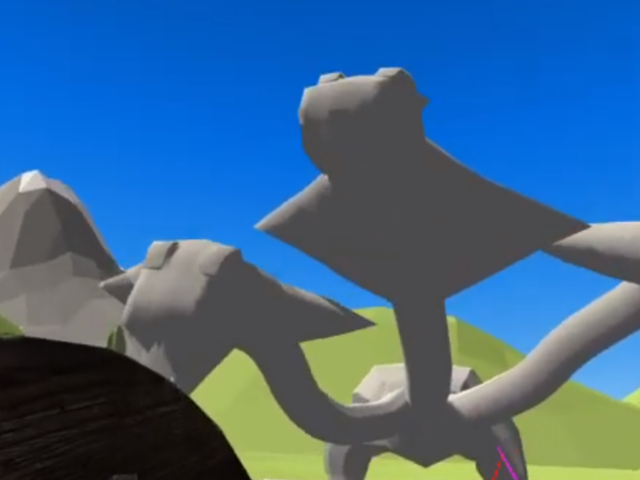
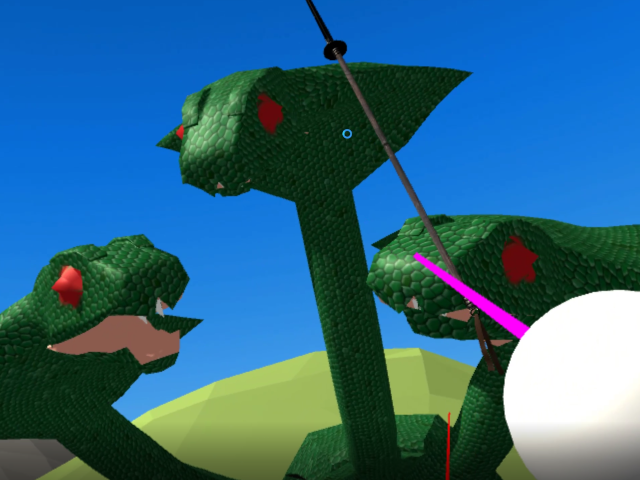
Additional Photos

diff --git a/Jurassic.html b/Jurassic.html
@@ -39,10 +39,10 @@ Details:
 	</tr>
 </table>
 <br>
-
 This project was the first full game I created while I was at NHTI. Harkening back to the park builders I grew up with, Don't Jurassic Up was a humorous take on the subject, with feeding Lawyers to Dinosaurs to getting scammed by fake scientists.
-
 <br>
-The main thing this project showcases is Serialization. Each of the events are a serialized object, which saved out to an XML file and is read by the game to provide the event system.
+<img src="/assets/images/JurassicGameplayStill.png">
 <br>
-
+The main thing this project showcases is Serialization. Each of the events are a serialized object, which saved out to an XML file and is read by the game to provide the event system. In hindsight, were I do the project again, I'd probably use Serialized objects, as that would save the hastle of having to edit a .xml file. Still, that's what you get with first time projects. A lot of room for improvements.
+<br>
+As my first project, I have a lot of fondness for it, but I can definitely see places where things could be improved, such as keeping the dinosaurs from breaking out of their cages in game, for one.

diff --git a/Undesirables.html b/Undesirables.html
@@ -49,7 +49,9 @@ Details:
 <br>
 This project was a group collaboration between other students. My contributions were the hitbox system for every character, background art, logo design, and the programming and art for the drone enemies.
 <br>
-The hitbox system uses Unity's collider scripts, but are tied to animation to have the hitboxes activate during the animation and tied to the 2D bone system. I also wrote the opening script to the game. S.P.I.T.E. is too good of an acronym to pass up.
+<img src="/assets/images/UndesirablesGameplayStill.png">
+<br>
+The hitbox system uses Unity's collider scripts, but are tied to animation to have the hitboxes activate during the animation and tied to the 2D bone system. This allowed for pretty acurate hitboxes, as the game was inspired by Souls-like games. I also wrote the opening script to the game. S.P.I.T.E. is too good of an acronym to pass up.
 <br>
 This was also the first project to begin production during the 2020 COVID-19 Pandemic, but not the last.
 <br>

diff --git a/Murder.html b/Murder.html
@@ -41,6 +41,8 @@ Details:
 <br>
 Murder at Highmourn Manor is a game about trying to solve a murder. More importantly, it was my first attempt at creating a sprawling Dialogue system within Unity. I love games that have deep stories with plenty of characters to interact with, so I wanted to find a way to do that in Unity.
 <br>
+<img src="/assets/images/MurderGameplayStill.png">
+<br>
 I achieved this by using Ink, a text editor designed to be used for storytelling, and the integration it has with unity. First I created the story using the Editor Inkle (and later the Unity built in editor), before implementing a Visual Novel-esque layout to enhance the gameplay. Ink is a surprisingly powerful tool for storytelling, as it's capable of logic gates, variables, and math that makes it it's own little programming language, and enhances any story you decide to write with it. Would highly reccomend.
 <br>
 Spoiler Alert: The Real murder was the friends we made along the way.

diff --git a/Hydra.html b/Hydra.html
@@ -47,6 +47,8 @@ Challenge of the Hydra showcases both one of my first VR projects, as well as my
 <br>
 There were a lot of interesting things that I experimented with when working with this project. The first of which is my first foray into particle effects for setting the spear on fire. This was done with a pre-fab from the Unity Store, but I loved the look of it all the same.
 <br>
+<img src="/assets/images/HydraGameplayStill.png">
+<br>
 The Hydra was easily the most impressive part of the project. In addition to being an original asset, the Hydra has animations, models for when it's heads are cut off, and even a pre-planned personality for each of the heads. The beast is not just a mindless monster, but a beast of it's own.
 <br>
 
